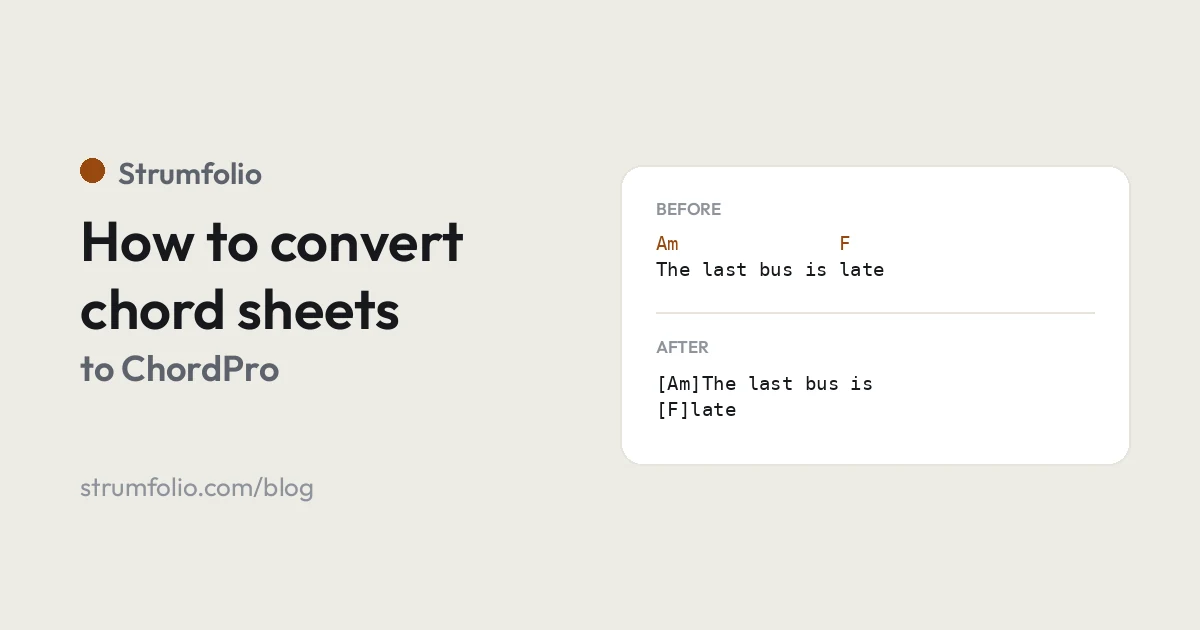
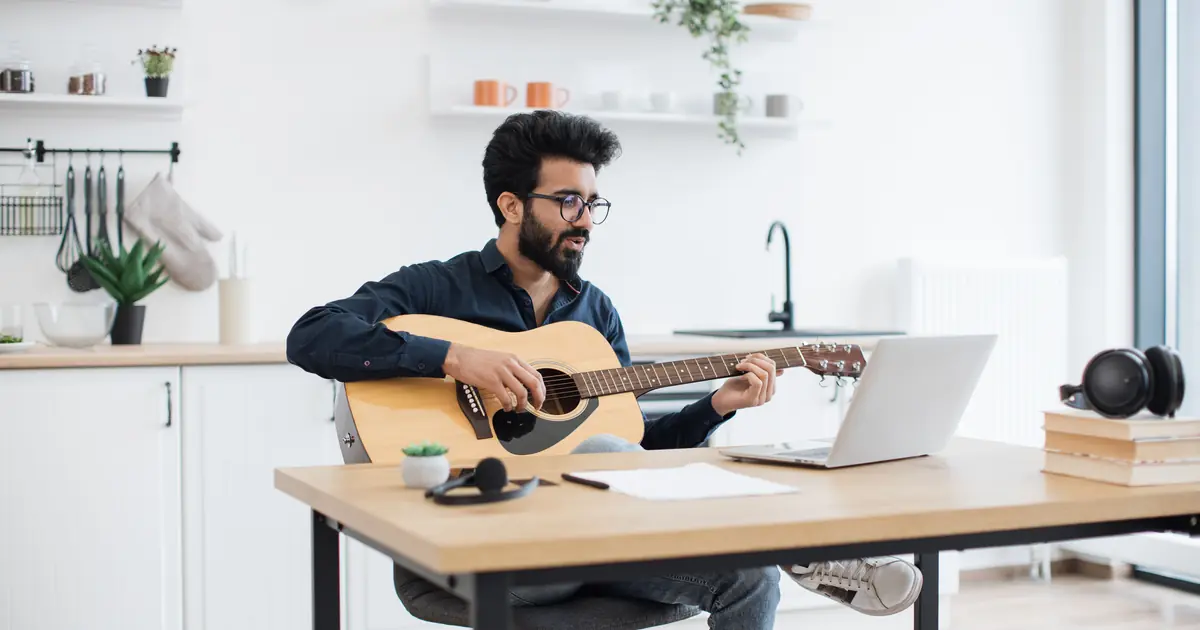
Le guide del blog ora hanno una fotografia, i confronti tengono il disegno
Le immagini arrivate nella cartella condivisa vanno sulle guide: la banda da
380px in cima all'articolo era disegnata nel mock per una fotografia, ed e'
il motivo per cui una copertina chiara aveva avuto bisogno di un filo di
bordo per non dissolversi nella pagina.

I confronti restano disegnati, per due ragioni e non una: la card «where it
runs» *e'* l'argomento di quegli articoli, e sono le uniche immagini senza
volti — la faccia di una persona sotto «An OnSong alternative» si legge come
un endorsement che nessuno ha dato.

La copertina della pagina e la card social diventano due cose diverse:
pageImage() disegna la banda e le schede, socialImage() restituisce sempre
la card generata. In un'anteprima di WhatsApp una fotografia muta larga
trecento pixel vale meno di un titolo leggibile col marchio sopra, e non
costa niente: quella rotta era gia' prerenderizzata per ogni articolo.

Quattro delle undici immagini erano generate con l'IA e sbagliate — in una
le corde attraversano la buca e svaniscono, senza ponte ne' selletta, con
meccaniche sulla fascia. Scartate: su un prodotto per musicisti quel
dettaglio lo vede in mezzo secondo il pubblico esatto che si vuole
convincere. Le tre scelte sono fotografie vere, e una riprende un libro di
accordi stampato in notazione tedesca — `G/H`, `A7/E` — che e' esattamente
cio' di cui parlano gli articoli.

Gli originali non entrano nel repo: ritagliati a 1200x630 e convertiti in
WebP, 48-104 KB l'uno.
[…]

diff --git a/src/lib/blog/openGraph.ts b/src/lib/blog/openGraph.ts
@@ -25,15 +25,33 @@ export function postPath(slug: string): string {
 }
 
 /**
- * The image that represents an article when its link is shared.
+ * The picture on the page: the wide band above an article, and the article's card on the
+ * index.
  *
- * The article's own cover when it has one; otherwise the card drawn from its title by
- * `blog/[slug]/og`. The fallback is what makes a cover optional rather than mandatory — a
- * piece of writing should never wait on somebody sourcing a picture, and an article shared
- * with no card at all looks broken in a way that costs more than a plain card does.
+ * Its own cover when it has one — a photograph on the guides, the drawn «where it runs» card
+ * on the comparisons — and otherwise the card generated from the title. The fallback is what
+ * makes a cover optional rather than mandatory: a piece of writing should never wait on
+ * somebody sourcing a picture.
+ */
+export function pageImage(meta: PostMeta): string {
+  return meta.cover ?? `${postPath(meta.slug)}/og`
+}
+
+/**
+ * The image that represents an article when its link is shared — **always the generated
+ * card**, never the cover.
+ *
+ * This is the one place the two deliberately differ. A cover earns its place on the page by
+ * being warm and human; in a link preview it is a photograph with no words on it, three
+ * hundred pixels wide in a chat, next to a title the app may or may not render. The generated
+ * card carries the headline, the mark and the colours, and it is legible at that size — which
+ * is the only thing a social card has to be.
+ *
+ * It costs nothing extra: `blog/[slug]/og` is prerendered for every article at build time
+ * anyway, because it always was the fallback.
  */
 export function socialImage(meta: PostMeta): string {
-  return meta.cover ?? `${postPath(meta.slug)}/og`
+  return `${postPath(meta.slug)}/og`
 }
 
 /**

diff --git a/src/app/blog/page.tsx b/src/app/blog/page.tsx
@@ -5,7 +5,7 @@ import Link from 'next/link'
 import { SiteFooter } from '@/components/SiteFooter'
 import { APP_NAME } from '@/lib/brand'
 import { postDate } from '@/lib/blog/date'
-import { CARD_HEIGHT, CARD_WIDTH, postPath, socialImage } from '@/lib/blog/openGraph'
+import { CARD_HEIGHT, CARD_WIDTH, pageImage, postPath } from '@/lib/blog/openGraph'
 import { listPosts } from '@/lib/blog/posts'
 import { shelve } from '@/lib/blog/shelves'
 
@@ -87,7 +87,7 @@ export default async function BlogIndexPage() {
           <Link href={postPath(featured.meta.slug)} className="blog-featured">
             <span className="blog-featured-image">
               <Image
-                src={socialImage(featured.meta)}
+                src={pageImage(featured.meta)}
                 alt=""
                 width={CARD_WIDTH}
                 height={CARD_HEIGHT}
@@ -116,7 +116,7 @@ export default async function BlogIndexPage() {
               <Link key={meta.slug} href={postPath(meta.slug)} className="blog-card">
                 <span className="blog-card-image">
                   <Image
-                    src={socialImage(meta)}
+                    src={pageImage(meta)}
                     alt=""
                     width={CARD_WIDTH}
                     height={CARD_HEIGHT}

diff --git a/src/app/globals.css b/src/app/globals.css
@@ -10476,10 +10476,11 @@
   /*
    * The hero band, at the mock's own 380px.
    *
-   * The hairline is the one addition to what was drawn, and it is there because of what
-   * fills the band: the mock's slot holds a photograph, which needs no edge because it
-   * *is* one, while a cover drawn on the app's own paper would otherwise dissolve into
-   * the page and read as loose text floating under the headline rather than as a picture.
+   * The hairline is the one addition to what was drawn, and it is kept for the covers that
+   * are still drawings: a photograph needs no edge because it *is* one, while a card set on
+   * the app's own paper would dissolve into the page and read as loose text floating under
+   * the headline. The guides carry photographs now and the comparisons carry drawn cards, so
+   * the band has to hold both — and a hairline costs a photograph nothing.
    *
    * `cover` crops to the band, so a cover's own artwork has to keep clear of the top and
    * bottom of the 1200×630 file — roughly the outer 90px each way at this width. Covers in

diff --git a/src/app/blog/[slug]/page.tsx b/src/app/blog/[slug]/page.tsx
@@ -8,7 +8,7 @@ import { SiteFooter } from '@/components/SiteFooter'
 import { BlogReadNext } from '@/components/BlogReadNext'
 import { IconChevronLeft } from '@/components/icons'
 import { postDate } from '@/lib/blog/date'
-import { CARD_HEIGHT, CARD_WIDTH, postMetadata, socialImage } from '@/lib/blog/openGraph'
+import { CARD_HEIGHT, CARD_WIDTH, pageImage, postMetadata } from '@/lib/blog/openGraph'
 import { listPosts, loadPost, publishedSlugs } from '@/lib/blog/posts'
 import { pickReadNext } from '@/lib/blog/shelves'
 
@@ -81,7 +81,7 @@ export default async function BlogPostPage({ params }: { params: Promise<{ slug:
           belongs to the page while the prose belongs to a column narrow enough to read. */}
       <div className="blog-article-hero">
         <Image
-          src={socialImage(meta)}
+          src={pageImage(meta)}
           /*
            * Empty alt on purpose: the cover repeats the headline directly above it, and a
            * screen reader announcing the title twice serves nobody. A picture that carries

diff --git a/PLAN-blog.md b/PLAN-blog.md
@@ -488,6 +488,33 @@ cambiano: un confronto sbagliato sui fatti è peggio di nessun confronto.
 - **Pagine per categoria**: da riconsiderare quando gli articoli saranno abbastanza da
   riempirle — indicativamente trenta, con almeno cinque per categoria. Il campo ora è una
   lista chiusa, quindi accenderle è aggiungere una rotta, non ripassare gli articoli.
+### Immagini: fotografie sulle guide, disegni sui confronti (3 settembre 2026)
+
+Sono arrivate undici immagini Adobe Stock nella cartella condivisa, e la regola che ne è
+uscita vale più delle immagini stesse.
+
+- **La copertina della pagina e la card social sono ora due cose diverse.**
+  `pageImage()` disegna la banda dell'articolo e le schede dell'indice; `socialImage()`
+  restituisce **sempre** la card generata, anche quando esiste una copertina. Motivo: in
+  un'anteprima di WhatsApp una fotografia muta larga trecento pixel vale meno di un titolo
+  leggibile con il marchio sopra. Non costa nulla — la rotta `og` era già prerenderizzata
+  per ogni articolo, perché era già il ripiego.
+- **Le guide portano fotografie, i confronti tengono le card disegnate.** Due ragioni, non
+  una: la card «where it runs» *è* l'argomento di quegli articoli, e sono le uniche immagini
+  senza volti — mettere la faccia di una persona sotto «An OnSong alternative» si legge come
+  un endorsement che nessuno ha dato.
+- **Quattro delle undici erano generate con l'IA, e sbagliate.** In una, le corde
+  attraversano la buca e svaniscono: nessun ponte, nessuna selletta, e meccaniche sulla
+  fascia. Su un prodotto per musicisti quel dettaglio è visto in mezzo secondo dal pubblico
+  esatto che si sta cercando di convincere. **Regola per il futuro: ingrandire lo strumento
+  prima di usare una foto di repertorio** — ponte, paletta, numero di corde, mani. Le tre
+  scelte sono fotografie vere; una di esse riprende un libro di accordi stampato in
+  notazione tedesca (`G/H`, `A7/E`), che è esattamente ciò di cui parlano gli articoli.
+- **Manca il capotasto.** Nessuna delle undici lo mostra, ed è il soggetto che il mock
+  chiedeva per nome. L'articolo sul capotasto porta intanto una foto di mano sulla tastiera.
+- Le originali (2-7 MB) **non entrano nel repo**: vengono ritagliate a 1200×630 e convertite
+  in WebP, 48-104 KB l'una.
+
 - **Il mock prevedeva fotografie; le copertine tipografiche sono diventate la scelta.**
   Ogni `image-slot` del disegno descrive uno scatto («Hands on a capo, close up»), e al loro
   posto sono state generate copertine tipografiche. Nate come sostituto, dopo cinque
